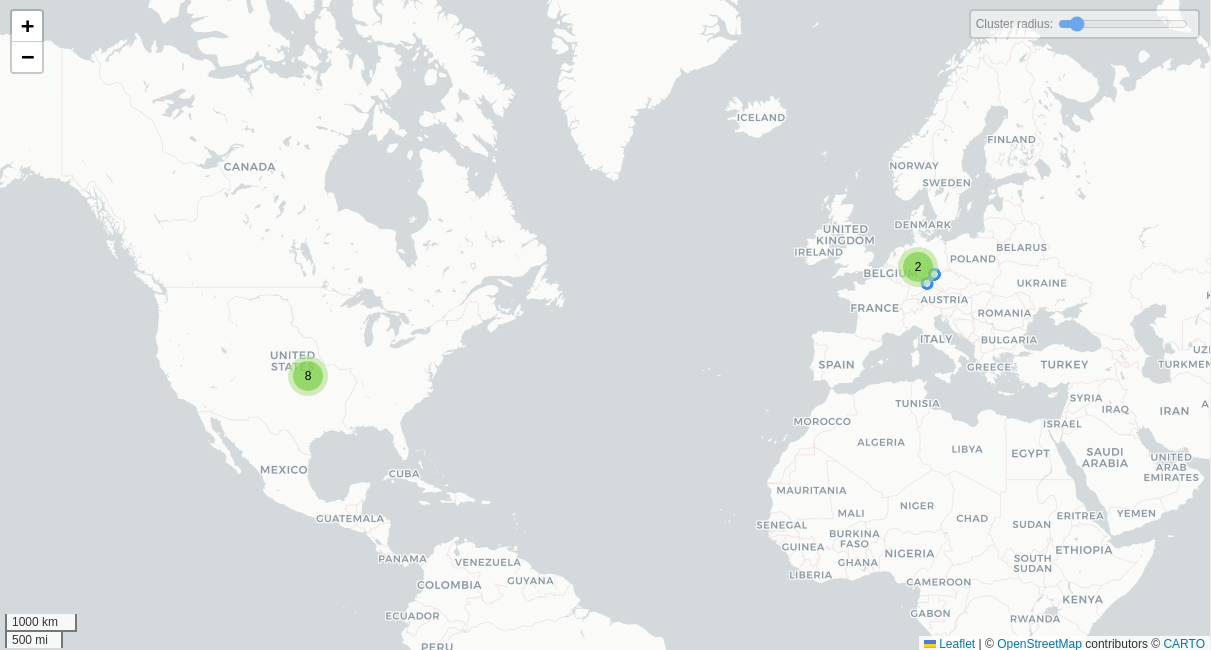
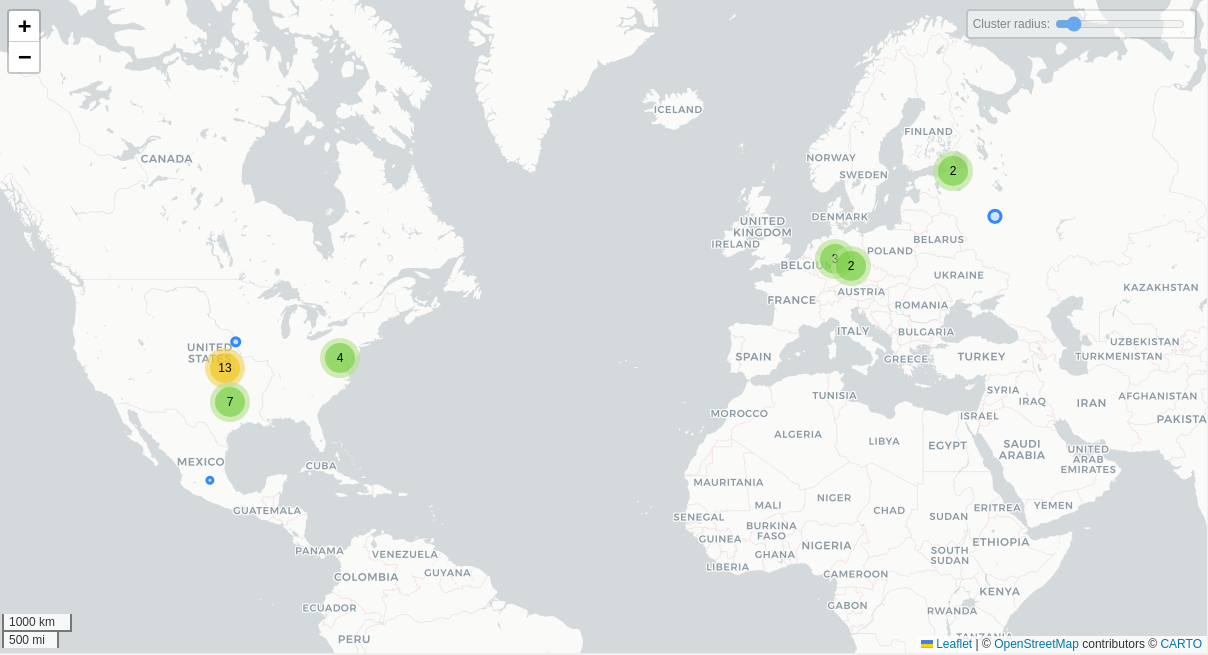
Docs: correcciones del reporte find my kids, se separaron los reportes por aplicación

diff --git a/docs/06-apps-de-control-parental/find-my-kids/find-my-kids.md b/docs/06-apps-de-control-parental/find-my-kids/find-my-kids.md
@@ -1,4 +1,4 @@
-# Find my Kids y Pingo!
+# Find my Kids (padres)
 
 ## Fechas de análisis
 
@@ -8,21 +8,15 @@
 
 ## Archivos analizados
 
-Aplicación para padres
 - [apk versión 2.8.91]()
 - [pcap versión 2.7.1]()
 - [Capturas de pantalla]()
 - [Reporte MobSF]()
 
-Aplicación para niños
-- [apk versión 2.8.89]()
-- [pcap versión 2.7.1]()
-- [Capturas de pantalla]()
-- [Reporte MobSF]()
 ## Descripción de la aplicación
 - **Tipo:**   Aplicación de control parental (Parenting)
-- **Costo:**   $69 mx (mensual) $549 mx (anual) $999 mx (de por vida)
-- **Enlace de descarga:** https://play.google.com/store/apps/details?id=org.findmykids.app&gl=mx
+- **Costo:**  Freemium
+- **Enlace de descarga:** https://play.google.com/store/apps/details?id=org.findmykids.app&hl=es_MX
 - **Descargas:** 50,000,000
 - **Ultima fecha de actualización:** 03/04/2025
 - **Versión:** 2.8.91
@@ -58,29 +52,11 @@ Aplicación para niños
 **Control parental y localizador familiar**  
   
 Find My Kids tiene como único objetivo garantizar la seguridad de tu familia. Funciona como un localizador familiar, facilitando el control parental mediante su sistema de rastreo GPS. La app de seguimiento de la ubicación de persona por su teléfono no puede instalarse de manera secreta y su uso requiere el consentimiento explícito del menor. Además, los datos personales se almacenan siguiendo estrictamente las legislaciones y políticas del RGPD.  
-  
-**Cómo funciona Find My Kids:**  
-  
-1) Instala la aplicación Find My Kids en tu teléfono.  
-2) Selecciona el dispositivo que deseas conectar: el teléfono de tu hijo o un reloj GPS.  
-3) Instala la app Pingo! en el teléfono de tu hijo o introduce el número de la tarjeta SIM del reloj GPS.
 
 **Si tu hijo tiene un smartphone:**  
   
 Instala la app Pingo! en el móvil de tu hijo con GPS. A diferencia de otras aplicaciones similares, nuestro servicio utiliza el localizador GPS en un modo de ahorro de energía.  
   
-**Relojes GPS compatibles:**  
-  
-Disfruta de todas las funciones del localizador familiar de forma gratuita durante el periodo de prueba, una vez que el dispositivo de tu hijo esté conectado. Al finalizar este periodo, la versión gratuita te permitirá consultar la ubicación del niño en tiempo real. Sin embargo, necesitarás una suscripción activa para acceder a las funciones completas.  
-  
-**Permisos necesarios para la app Find My Kids:**  
-  
-- Acceso a cámara y fotos: Para crear el avatar de tu hijo.  
-- Acceso a contactos: Para completar la agenda en el reloj GPS.  
-- Funciones especiales: Para limitar el tiempo de pantalla del móvil.  
-- Acceso al micrófono: Para enviar mensajes de voz en el chat.  
-  
-En caso de problemas técnicos, contacta con nuestro servicio de ayuda 24/7 a través del chat en la app o por correo electrónico a support@findmykids.org.
 ~~~
 
 ## Rastreadores identificados (mediante Exodus Privacy)
@@ -98,7 +74,14 @@ En caso de problemas técnicos, contacta con nuestro servicio de ayuda 24/7 a tr
 | Empresa                                                             | Servicios que ofrecen                                                       |
 | ------------------------------------------------------------------- | --------------------------------------------------------------------------- |
 | [Hetzner Online GmbH](https://www.hetzner.com/legal/privacy-policy) | Infraestructura en la nube, almacenamiento, servidores y cómputo escalable. |
-| Google                                                              | Publicidad (Ads), analíticas (Google Analytics).                            |
+| [Google](https://google.com)                                        | Publicidad (Ads), analíticas (Google Analytics).                            |
+| [Amazon Web Services (AWS)](https://aws.amazon.com)                 | Infraestructura en la nube, almacenamiento, servidores y cómputo escalable. |
+| [Akamai International](https://www.akamai.com/)                     | Infraestructura en la nube, almacenamiento, servidores y cómputo escalable. |
+| [DoubleGIS LLC]()                                                   | Desarrollo de Mapas, herramientas de geoanálisis.                           |
+| [JSC Selectel](https://selectel.ru/en/)                             | Infraestructura en la nube, almacenamiento, servidores y cómputo escalable. |
+| [Facebook](https://facebook.com)                                    | Publicidad (Ads), redes sociales, analíticas, servicios de mensajería.      |
+| [Cloudflare](https://www.cloudflare.com/)                           | Infraestructura en la nube, almacenamiento, servidores y cómputo escalable. |
+
 
 ### Empresas identificadas a través del Aviso de Privacidad con que se comparten datos:
 
@@ -115,35 +98,86 @@ En caso de problemas técnicos, contacta con nuestro servicio de ayuda 24/7 a tr
 
 | Dominios                                    |
 | ------------------------------------------- |
-| https://243408.selcdn.ru                    |
-| https://ktor.io                             |
-| https://schemas.microsoft.com               |
-| https://firebase.google.com                 |
-| https://www.w3.org                          |
-| https://firebase-settings.crashlytics.com   |
-| https://app-measurement.com                 |
-| https://where-is-my-children.firebaseio.com |
-| https://ya.ru                               |
-| https://pagead2.googlesyndication.com       |
-| https://gdemoideti.onelink.me               |
-| https://g.co                                |
+| https://apache.org                          |
+| https://nav2-cn.ronghub.com                 |
+| https://sviap.s                             |
+| https://graph-video.s                       |
+| https://analytics.us.tiktok.com             |
+| https://feedback.cn.ronghub.com             |
 | https://ns.adobe.com                        |
-| https://aomedia.org                         |
 | https://youtrack.jetbrains.com              |
+| https://cdn.apkmonk.com                     |
+| https://webview.findmykids.org              |
 | https://schemas.android.com                 |
+| https://sadrevenue.s                        |
 | https://www.slf4j.org                       |
+| https://scdn-ssettings.s                    |
+| https://sdlsdk.s                            |
 | https://developer.android.com               |
 | https://github.com                          |
-| https://issuetracker.google.com             |
 | https://www.baidu.com                       |
-| https://google.com                          |
+| https://billing.findmykids.org              |
 | https://goo.gle                             |
+| https://offer.gdemoideti.ru                 |
+| https://sars.s                              |
+| https://sconversions.s                      |
+| https://shop.gdemoideti.ru                  |
+| https://www.w3.org                          |
+| https://fundingchoicesmessages.google.com   |
+| https://firebase-settings.crashlytics.com   |
+| https://webview.kidstracker.pro             |
+| https://svalidate.s                         |
+| https://facebook.com                        |
+| https://ya.ru                               |
+| https://sgcdsdk.s                           |
+| https://simpression.s                       |
+| https://sinapps.s                           |
+| https://developers.facebook.com             |
+| https://play.google.com                     |
+| https://app.resubscribe.ai                  |
+| https://ssdk-services.s                     |
+| https://sregister.s                         |
+| https://privacy-sandbox.appsflyersdk.com    |
+| https://form.typeform.com                   |
+| https://scdn-stestsettings.s                |
+| https://smonitorsdk.s                       |
+| https://where-is-my-children.firebaseio.com |
+| https://webview.gdemoideti.ru               |
+| https://l.gdemoideti.ru                     |
+| https://gdemoideti.onelink.me               |
+| https://gdemoideti.ru                       |
+| https://graph.s                             |
+| https://api.resubscribe.ai                  |
+| https://offer.findmykids.org                |
+| https://sapp.s                              |
+| https://sattr.s                             |
+| https://slaunches.s                         |
+| https://junior.mts.ru                       |
+| https://tile.openstreetmap.org              |
+| https://issuetracker.google.com             |
+| https://findmykids.org                      |
 | https://developer.apple.com                 |
+| https://svalidate-and-log.s                 |
+| https://spia.s                              |
+| https://ktor.io                             |
+| https://javax.xml.xmlconstants              |
+| https://firebase.google.com                 |
+| https://52.83.240.50                        |
+| https://gps-watch.findmykids.org            |
+| https://app-measurement.com                 |
+| https://l.findmykids.org                    |
+| https://www.openstreetmap.org               |
+| https://aomedia.org                         |
+| https://www.google.ru                       |
+| https://api.findmykids.org                  |
+| https://nav.cn.ronghub.com                  |
+| https://stats.cn.ronghub.com                |
+| https://sonelink.s                          |
 
 ## Permisos   
 
-- **Según Exodus Privacy/MobFS:** 36
-- **Según prueba de uso:** 11
+- **Según Exodus Privacy/MobFS:** 33
+- **Según prueba de uso:** 3
 
 
 ### Permisos según Exodus Privacy
@@ -188,15 +222,8 @@ El icono :exclamation: indica un nivel 'Peligroso' o 'Especial' de acuerdo a los
 
 - :red_circle: Ubicación
 - :red_circle: Notificaciones
-- :red_circle: Acceso a los datos de actividad física
-- :red_circle: Ejecutarse en segundo plano
-- :red_circle: Grabar audio
-- :red_circle: Mostar sobre otras aplicaciones
-- :red_circle: Acceso a datos de uso
 - :red_circle: Acceso a contactos
-- :red_circle: Acceso a la gestión de llamadas
-- :red_circle: Establecer como identificador de llamada y spam predeterminado.
-- :red_circle: Acceso a la API del servicio de accesibilidad
+
 
 
 :red_circle: Este ícono indica un permiso obligatorio   
@@ -222,20 +249,43 @@ El icono :exclamation: indica un nivel 'Peligroso' o 'Especial' de acuerdo a los
 
 ### Tabla de conexiones realizadas durante el uso de la aplicación
 
-| Dirección IP    | Número de Paquetes | País          | Ciudad/Zona | Organización AS     | Dominio |
-| --------------- | ------------------ | ------------- | ----------- | ------------------- | ------- |
-| 116.203.126.51  | 666                | Germany       | Nuremberg   | Hetzner Online GmbH |         |
-| 142.251.218.131 | 66                 | United States |             | GOOGLE              |         |
-| 159.69.174.250  | 6214               | Germany       |             | Hetzner Online GmbH |         |
-| 167.235.81.130  | 94                 | Germany       |             | Hetzner Online GmbH |         |
-| 167.235.232.60  | 2821               | Germany       | Falkenstein | Hetzner Online GmbH |         |
-| 172.217.15.4    | 934                | United States |             | GOOGLE              |         |
-| 192.178.52.164  | 3672               | United States |             | GOOGLE              |         |
-| 192.178.52.174  | 288                | United States |             | GOOGLE              |         |
-| 192.178.52.196  | 2680               | United States |             | GOOGLE              |         |
-| 192.178.57.3    | 78                 | United States |             | GOOGLE              |         |
-| 192.178.57.4    | 658                | United States |             | GOOGLE              |         |
-| 216.58.195.238  | 56                 | United States |             | GOOGLE              |         |
+| Dirección IP   | Número de Paquetes | País          | Ciudad/Zona    | Organización AS           | Dominio |
+| -------------- | ------------------ | ------------- | -------------- | ------------------------- | ------- |
+| 3.161.44.27    | 171                | United States |                | AMAZON-02                 |         |
+| 3.161.44.43    | 119                | United States |                | AMAZON-02                 |         |
+| 3.220.27.242   | 167                | United States | Ashburn        | AMAZON-AES                |         |
+| 13.218.7.32    | 58                 | United States | Ashburn        | AMAZON-AES                |         |
+| 15.197.143.135 | 61                 | United States |                | AMAZON-02                 |         |
+| 23.2.18.232.89 | 59                 | United States | Irving         | Akamai International      |         |
+| 34.56.35.108   | 264                | United States | Council Bluffs | GOOGLE-CLOUD-PLATFORM     |         |
+| 34.237.73.95   | 175                | United States | Ashburn        | AMAZON-AES                |         |
+| 54.83.110.225  | 60                 | United States | Ashburn        | AMAZON-AES                |         |
+| 65.9.121.31    | 172                | United States |                | AMAZON-02                 |         |
+| 65.9.149.23    | 60                 | United States |                | AMAZON-02                 |         |
+| 65.9.149.71    | 172                | United States |                | AMAZON-02                 |         |
+| 65.9.149.95    | 79                 | United States |                | AMAZON-02                 |         |
+| 91.236.51.150  | 726                | Russia        |                | DoubleGIS LLC             |         |
+| 92.53.68.16    | 52                 | Russia        | St Petersburg  | JSC Selectel              |         |
+| 95.213.211.138 | 279                | Russia        | St Petersburg  | JSC Selectel              |         |
+| 138.199.255.74 | 884                | Germany       | Falkenstein    | Hetzner Online GmbH       |         |
+| 142.251.34.10  | 24                 | United States |                | Hetzner Online GmbH       |         |
+| 142.251.34.46  | 1498               | United States |                | Hetzner Online GmbH       |         |
+| 157.240.25.1   | 211                | Mexico        | Queretaro      | FACEBOOK                  |         |
+| 167.235.81.130 | 9566               | Germany       |                | Hetzner Online GmbH       |         |
+| 167.235.81.131 | 373                | Germany       |                | Hetzner Online GmbH       |         |
+| 167.235.232.60 | 48                 | Germany       |                | Hetzner Online GmbH       |         |
+| 167.235.23.158 | 1499               | Germany       | Falkenstein    | Hetzner Online GmbH       |         |
+| 172.67.23.158  | 18                 |               |                | CLOUDFLARENET             |         |
+| 184.28.41.5    | 172                | United States | Dallas         | Akamai International B.V. |         |
+| 184.28.41.20   | 37                 | United States | Dallas         | Akamai International B.V. |         |
+| 184.28.41.28   | 43                 | United States | Dallas         | Akamai International B.V. |         |
+| 184.28.41.31   | 19                 | United States | Dallas         | Akamai International B.V. |         |
+| 184.28.41.29   | 44                 | United States | Dallas         | Akamai International B.V. |         |
+| 184.28.41.36   | 54                 | United States | Dallas         | Akamai International B.V. |         |
+| 192.178.52.202 | 19                 | United States |                | GOOGLE                    |         |
+| 192.178.57.36  | 2267               | United States |                | GOOGLE                    |         |
+| 216.58.195.238 | 49                 | United States |                | GOOGLE                    |         |
+
 
 ### Mapa de conexiones realizadas durante el uso de la aplicación
 ![mapa](./mapa.png)
@@ -265,7 +315,7 @@ El icono :exclamation: indica un nivel 'Peligroso' o 'Especial' de acuerdo a los
 ### Prácticas de seguridad
 
 - Los datos están cifrados en tránsito
-- Puedes solicitar que se borren los datos
+- :exclamation: **No se pueden borrar los datos**
 
 ### Datos recopilados y uso según la Política de privacidad
 
@@ -305,6 +355,29 @@ El niño tiene la posibilidad de bloquear el acceso a la escucha del entorno (im
 
 La aplicación le sugiere lecturas a los padres para llegar a acuerdos en lugar de imponer las medidas de control impositivas, que es incongruente respecto a las características de la aplicación y la cantidad de datos que captura.
 
+### Envio de una señal fuerte
+
+El tutor puede enviar una señal fuerte que mostrará una ventana emergente para indicarle al niño que debe llamar a sus padres.
+
+### Chat 
+
+La aplicación tiene un chat directo con la infancia. Es posible que la infancia se comunique con otros contactos de confianza.
+
+### Funciones premium
+
+Las funciones  premium tienen un costo de  $69 mx (mensual) $549 mx (anual) $999 mx (de por vida). Estas funciones incluyen:
+
+- Rastreo GPS en tiempo real: Permite a los padres ver la ubicación actual de sus hijos en un mapa. 
+- Historial de ubicación: Mantiene un registro de los lugares donde han estado los hijos a lo largo del día. 
+- Notificaciones de seguridad: Recibe alertas cuando los hijos llegan o salen de lugares específicos, como el colegio o la casa. 
+- Escucha de entorno: Permite escuchar los sonidos alrededor de los hijos para asegurarse de que están bien. 
+- Control parental: Facilita la gestión de aplicaciones, tiempos de uso y acceso a contenido en línea. 
+- Chat familiar: Permite comunicarse con los hijos a través de la aplicación. 
+- Alertas de batería baja: Notifica a los padres cuando la batería del dispositivo del hijo está baja. 
+
+Es posible usar la aplicación sin las funciones de pago. Si ves anuncios la aplicación te permite desbloquear tiempo o intentos de prueba de las funciones de paga.
+
+
 ## Notas
 
 - Inconsistencia en la solicitud de permisos de ubicación: Aunque la aplicación inicialmente solicita el permiso de ubicación “Mientras la app está en uso”, conforme a lo indicado en sus políticas de privacidad, luego requiere al usuario configurar manualmente el permiso como “Permitir siempre”. Esta situación implica un riesgo de uso indebido y un incumplimiento a la política de privacidad.
@@ -313,31 +386,31 @@ La aplicación le sugiere lecturas a los padres para llegar a acuerdos en lugar 
 
 - La app funciona bajo un modelo freemium, con funciones limitadas sin pago que te permite probarlas al principio. El acceso completo depende de una suscripción mensual, anual o de por vida.
 
+- Según la PlayStore, Find my Kids no comparte datos del usuario con otras organizaciones o empresas, pero en la política de privacidad si declara compartir los datos con fines publicitarios o con sus proveedores de servicios.
+
 
 ## Conclusiones
 
 ### Privacidad y datos recolectados
 
-La app recolecta una gran cantidad de datos sensibles que pertenecen a infancias o adolescencias, incluyendo ubicación precisa, grabaciones de sonido ambiental, uso de aplicaciones, actividad física, y más, lo cual plantea preocupaciones serias sobre su derecho a la privacidad.
+La aplicación solicita más de 30 permisos, varios de ellos considerados peligrosos o especiales por Android (como acceso al micrófono, cámara, contactos, ubicación precisa y almacenamiento externo). Lo que no tiene sentido ya que este teléfono no es el que se está monitoreando.
 
-Aunque la app menciona el cumplimiento del RGPD (Reglamento General de Protección de Datos), se identificaron incongruencias en la solicitud de permisos, que tampoco están declarados por completo en la política de privacidad.
+La app no ofrece la opción de borrar los datos personales recopilados y la política de privacidad admite compartirlos con múltiples terceros para fines como publicidad, estadísticas, soporte, etc.
 
-Se comparten datos con múltiples empresas de terceros, incluyendo proveedores de analítica, publicidad, CRM y almacenamiento en la nube. Este ecosistema extenso amplifica el riesgo de exposición de la información.
-
-
+Se identificaron conexiones activas con más de 30 dominios de terceros, muchos de ellos asociados a publicidad, analítica o almacenamiento en la nube. La app se conecta a servidores en Estados Unidos, Alemania y Rusia.
 ### Funcionalidades  contradictorias
 
-Las funciones como la escucha del entorno, el control del uso de aplicaciones y el seguimiento GPS constante y en vivo son prácticas hipervigilantes, incluso aunque se presenten como medidas de protección.
+Usar la gamificación como estategia normaliza el monitoreo invasivo desde edades tempranas, lo cual puede impactar negativamente la percepción que las infancias tienen sobre su autonomía y privacidad.
 
-La app promueve acuerdos entre adultos y menores mediante lecturas educativas, lo cual es positivo, pero no se alinea con el modelo intrusivo de recolección de datos ni con la monetización a través de dispositivos GPS.
-
+La aplicación solicita tantos permisos como la que se instala en los dispositivos a monitorear, los cuales no son necesarios ni congruentes con las funciones que tiene el panel de control de la app.
 
 ### Permisos y Nivel de Acceso
 
-Según Exodus Privacy se identificaron 36 permisos en la aplicación Pingo! solicitan un conjunto amplio de permisos considerados peligrosos por Android, que les permite tener un control profundo del sistema. 
-
-Permisos como RECORD_AUDIO, ACCESS_FINE_LOCATION, READ_CONTACTS, READ_EXTERNAL_STORAGE, y SYSTEM_ALERT_WINDOW le otorgan a la aplicación un acceso intrusivo a funciones privadas y sensibles del dispositivo.
-
-El permiso para grabar audio, combinado con la función de escucha del entorno, puede transformar el dispositivo en un medio de vigilancia remota.
+Según Exodus Privacy se identificaron 33 permisos en la aplicación, solicitan un conjunto amplio de permisos considerados peligrosos por Android, que les permite tener un control profundo del sistema. 
 
 El conjunto de permisos en Find My Kids y Pingo! otorga a la aplicación un nivel de acceso desproporcionado al dispositivo del niño, lo cual es riesgoso desde una perspectiva de privacidad, derechos de la infancia y seguridad digital. Si bien algunas funciones lo justifican desde el enfoque de control parental, la cantidad y el tipo de permisos exceden lo razonable, es po
+
+### Conclusión final
+Consideramos que el nivel de efectividad de esta app es preocupante ya que las funciones que promociona realmente se llevan a cabo, sin embargo no incentivamos su uso ya que es muy invasivo, vulnera principios fundamentales de privacidad y uso ético de la tecnología recopilando información sensible de las infancias que posteriormente se comparte con terceros y no ofrece la eliminación de los datos. Contradiciendo el discurso de la protección familiar.
+
+Esta aplicación recopila una exagerada cantidad de datos del teléfono con el objetivo de compartirla con terceros. Instalar esta aplicación implica que el dispositivo del padre será monitoreado por la empresa al mismo nivel que monitorea a la infancia, con fines de marketing y publicidad. Por lo tanto, esta aplicación es sumamente Datavorezca.
